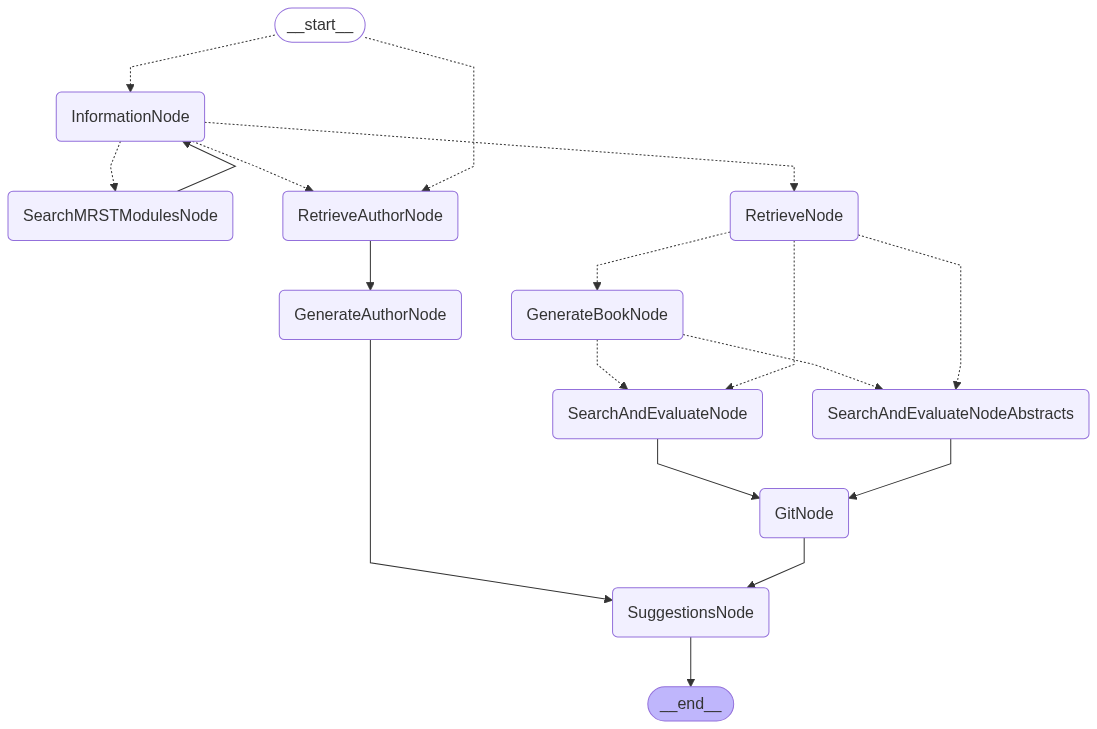
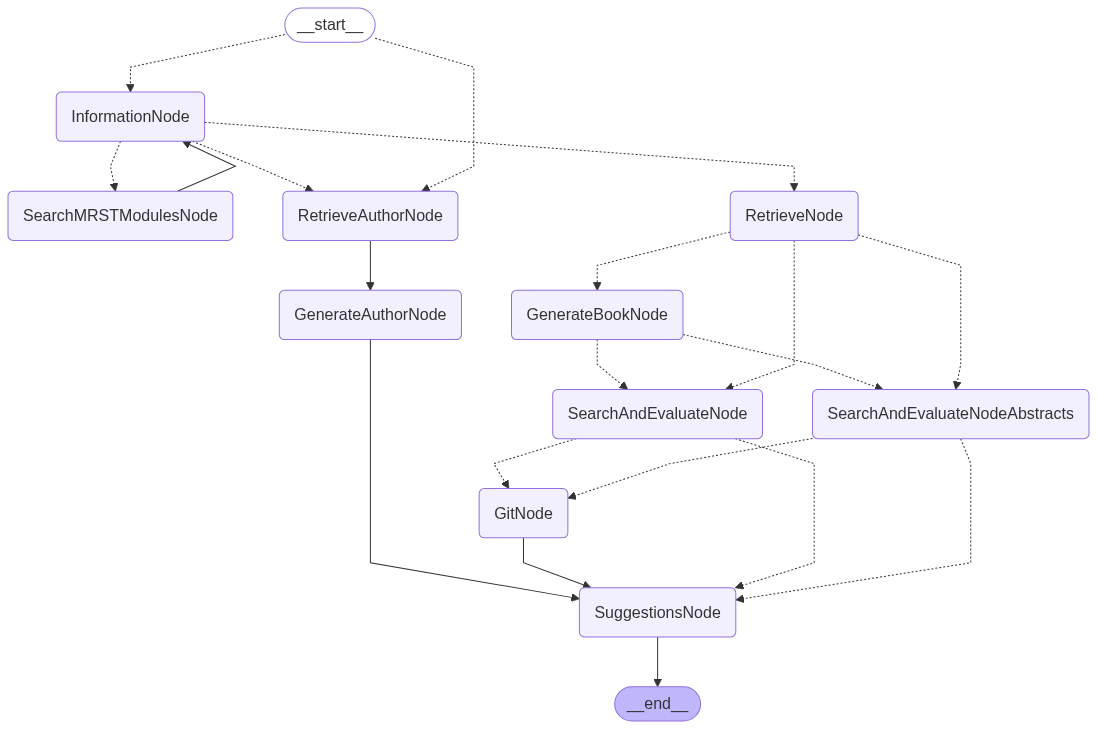
optional gitnode

diff --git a/graph.py b/graph.py
@@ -94,6 +94,7 @@ class State(TypedDict):
     github_authors_relevance_score: dict[str, float]
     cosine_dict: dict[str, tuple[float, float]]
     clustering: bool
+    github: bool
 
 """
 Helper objects
@@ -750,6 +751,8 @@ def SearchAndEvaluateNodeAbstracts(state: State) -> State:
         print("Done evaluating")
         c_fig = None
         c_name = None
+        paper_response = ""
+
         if state.get('clustering'):
 
             print("Clustering")
@@ -866,6 +869,12 @@ def BookRouter(state: State) -> Literal["GenerateBookNode", "SearchAndEvaluateNo
         return "GenerateBookNode"
     else:
         return SearchRouter(state)
+    
+def GitRouter(state: State) -> Literal["GitNode", "SuggestionsNode"]:
+    if state.get('github'):
+        return "GitNode"
+    else:
+        return "SuggestionsNode"
 
 """
 Setting up the graph
@@ -889,8 +898,8 @@ graph_builder.add_conditional_edges("InformationNode", RetrievalRouter, {"Search
 graph_builder.add_conditional_edges("RetrieveNode", BookRouter, {"GenerateBookNode":"GenerateBookNode", "SearchAndEvaluateNode":"SearchAndEvaluateNode", "SearchAndEvaluateNodeAbstracts":"SearchAndEvaluateNodeAbstracts"})
 graph_builder.add_conditional_edges("GenerateBookNode", SearchRouter, {"SearchAndEvaluateNode":"SearchAndEvaluateNode", "SearchAndEvaluateNodeAbstracts":"SearchAndEvaluateNodeAbstracts"})
 graph_builder.add_edge("SearchMRSTModulesNode", "InformationNode")
-graph_builder.add_edge("SearchAndEvaluateNode", "GitNode")
-graph_builder.add_edge("SearchAndEvaluateNodeAbstracts", "GitNode")
+graph_builder.add_conditional_edges("SearchAndEvaluateNode", GitRouter, {"GitNode": "GitNode", "SuggestionsNode": "SuggestionsNode"})
+graph_builder.add_conditional_edges("SearchAndEvaluateNodeAbstracts", GitRouter, {"GitNode": "GitNode", "SuggestionsNode": "SuggestionsNode"})
 graph_builder.add_edge("RetrieveAuthorNode", "GenerateAuthorNode")
 graph_builder.add_edge("GenerateAuthorNode", "SuggestionsNode")
 graph_builder.add_edge("GitNode", "SuggestionsNode")
